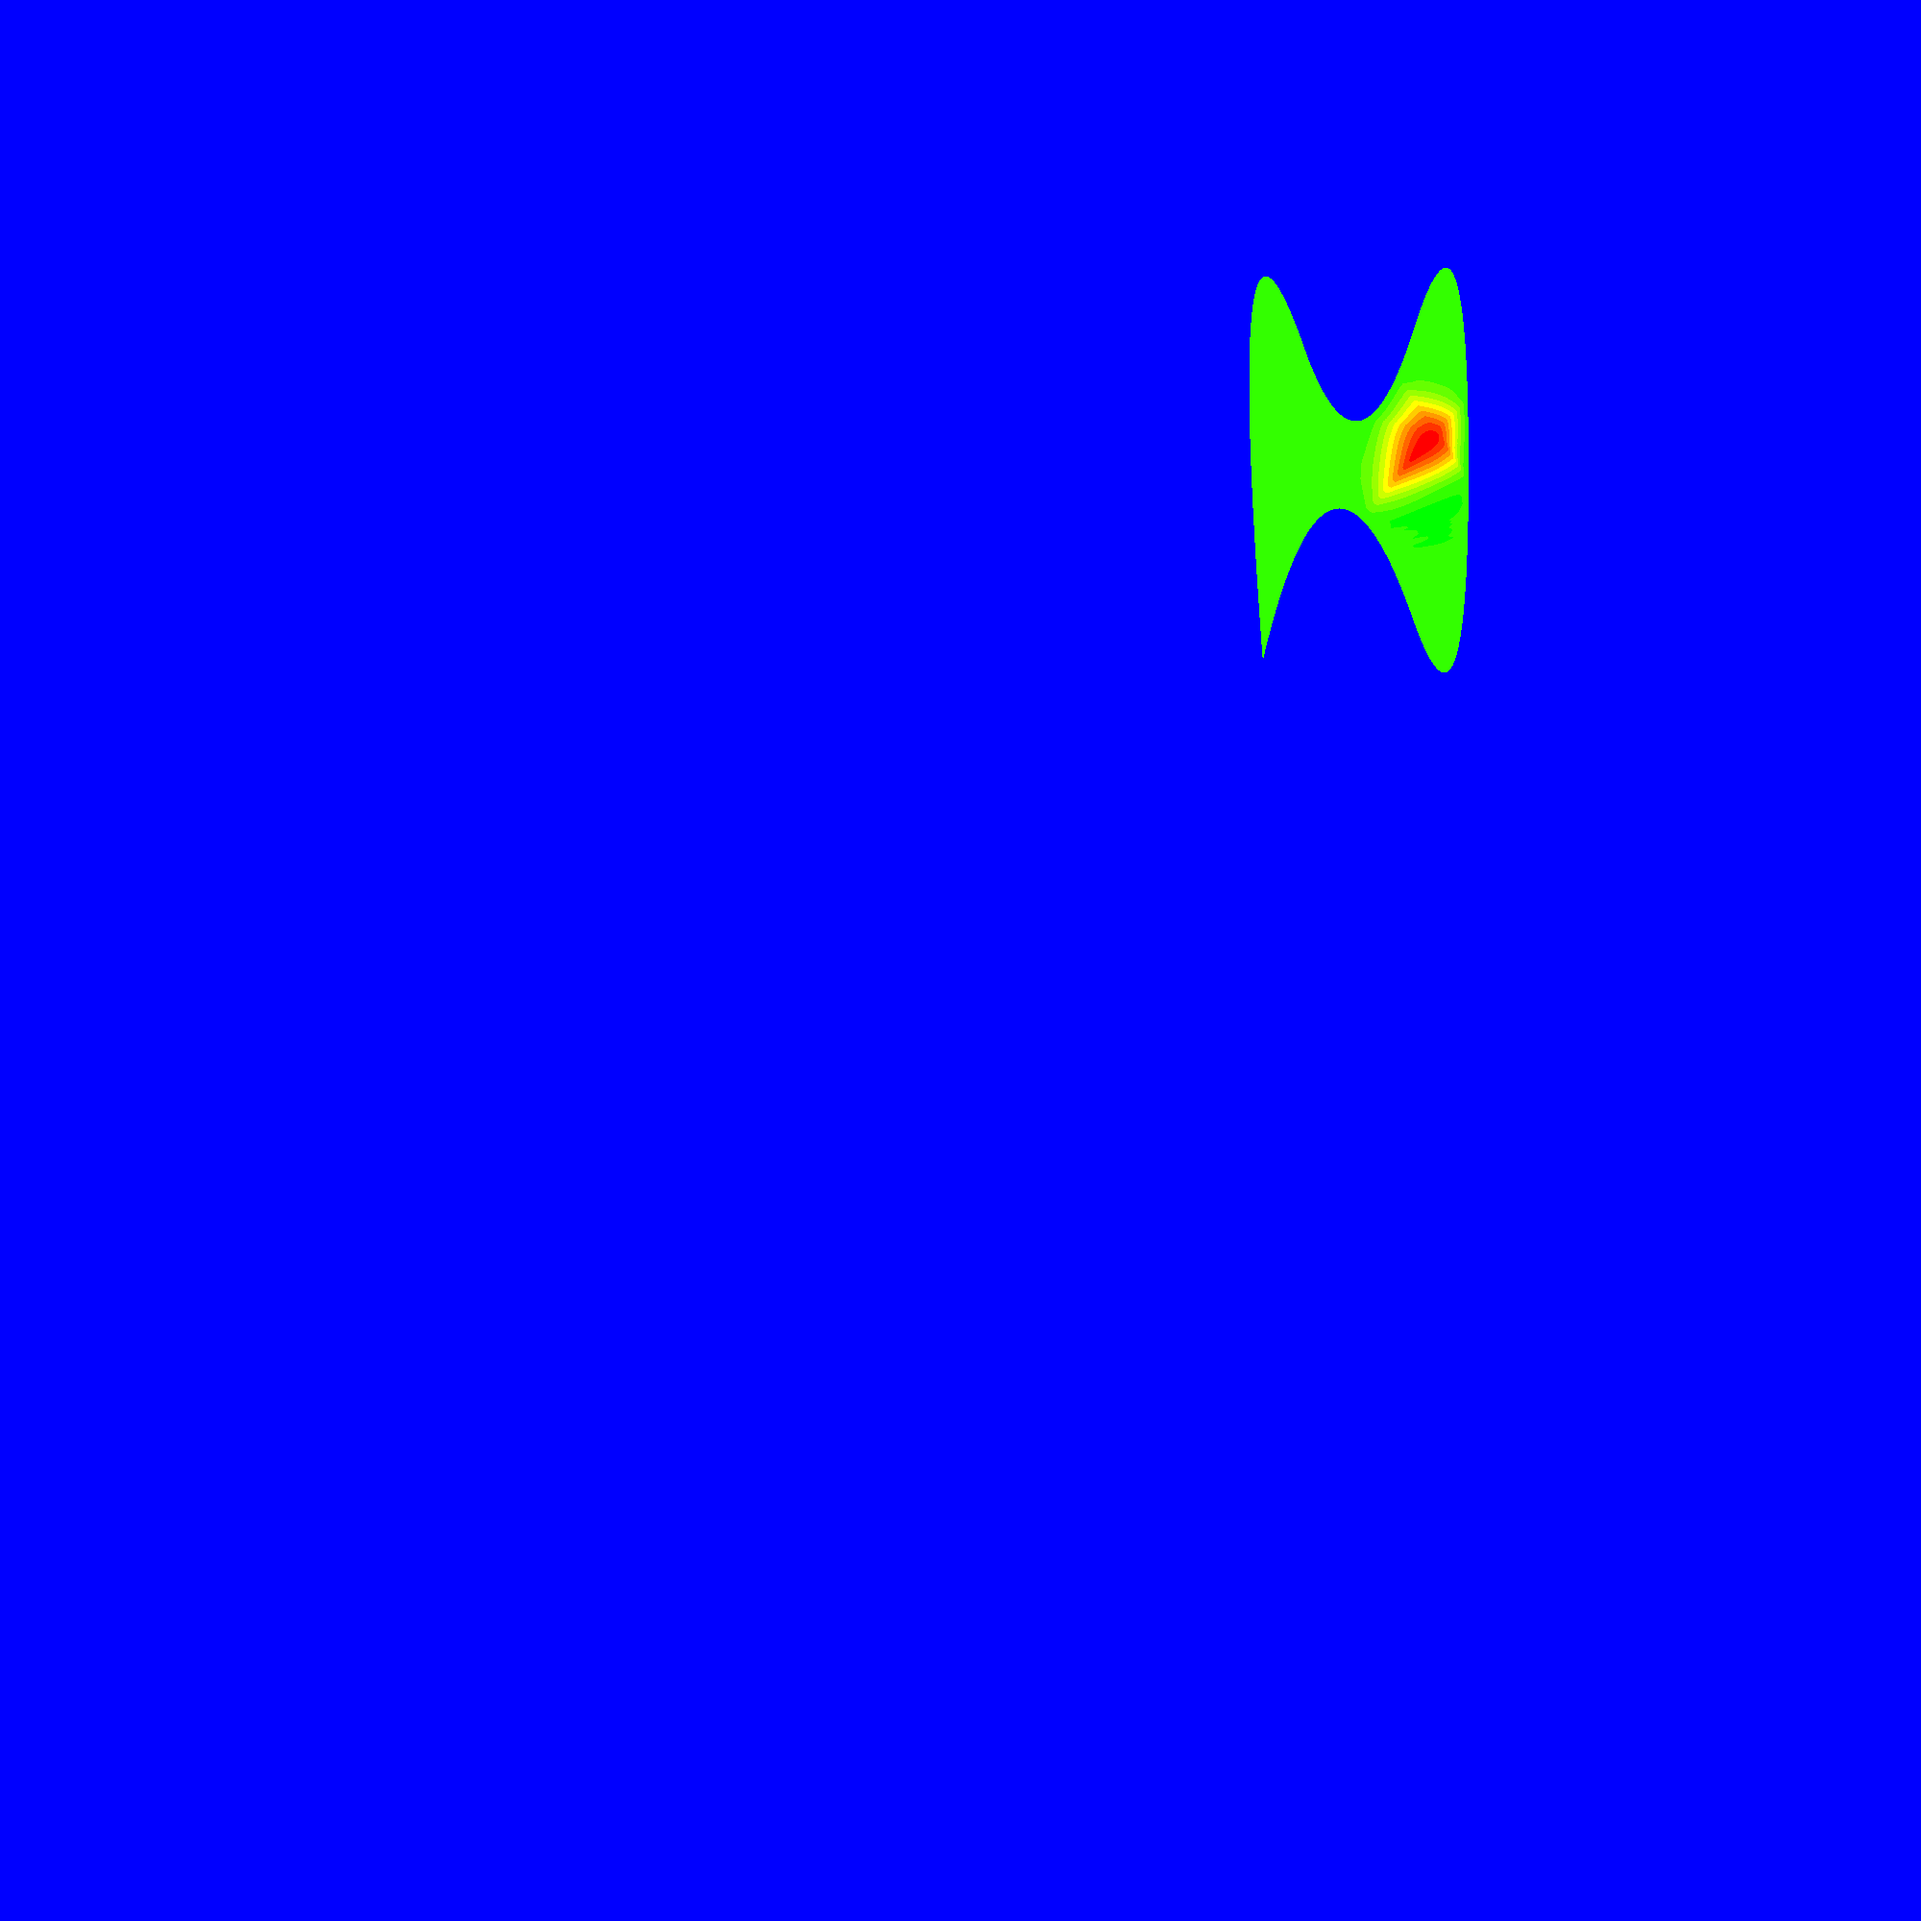
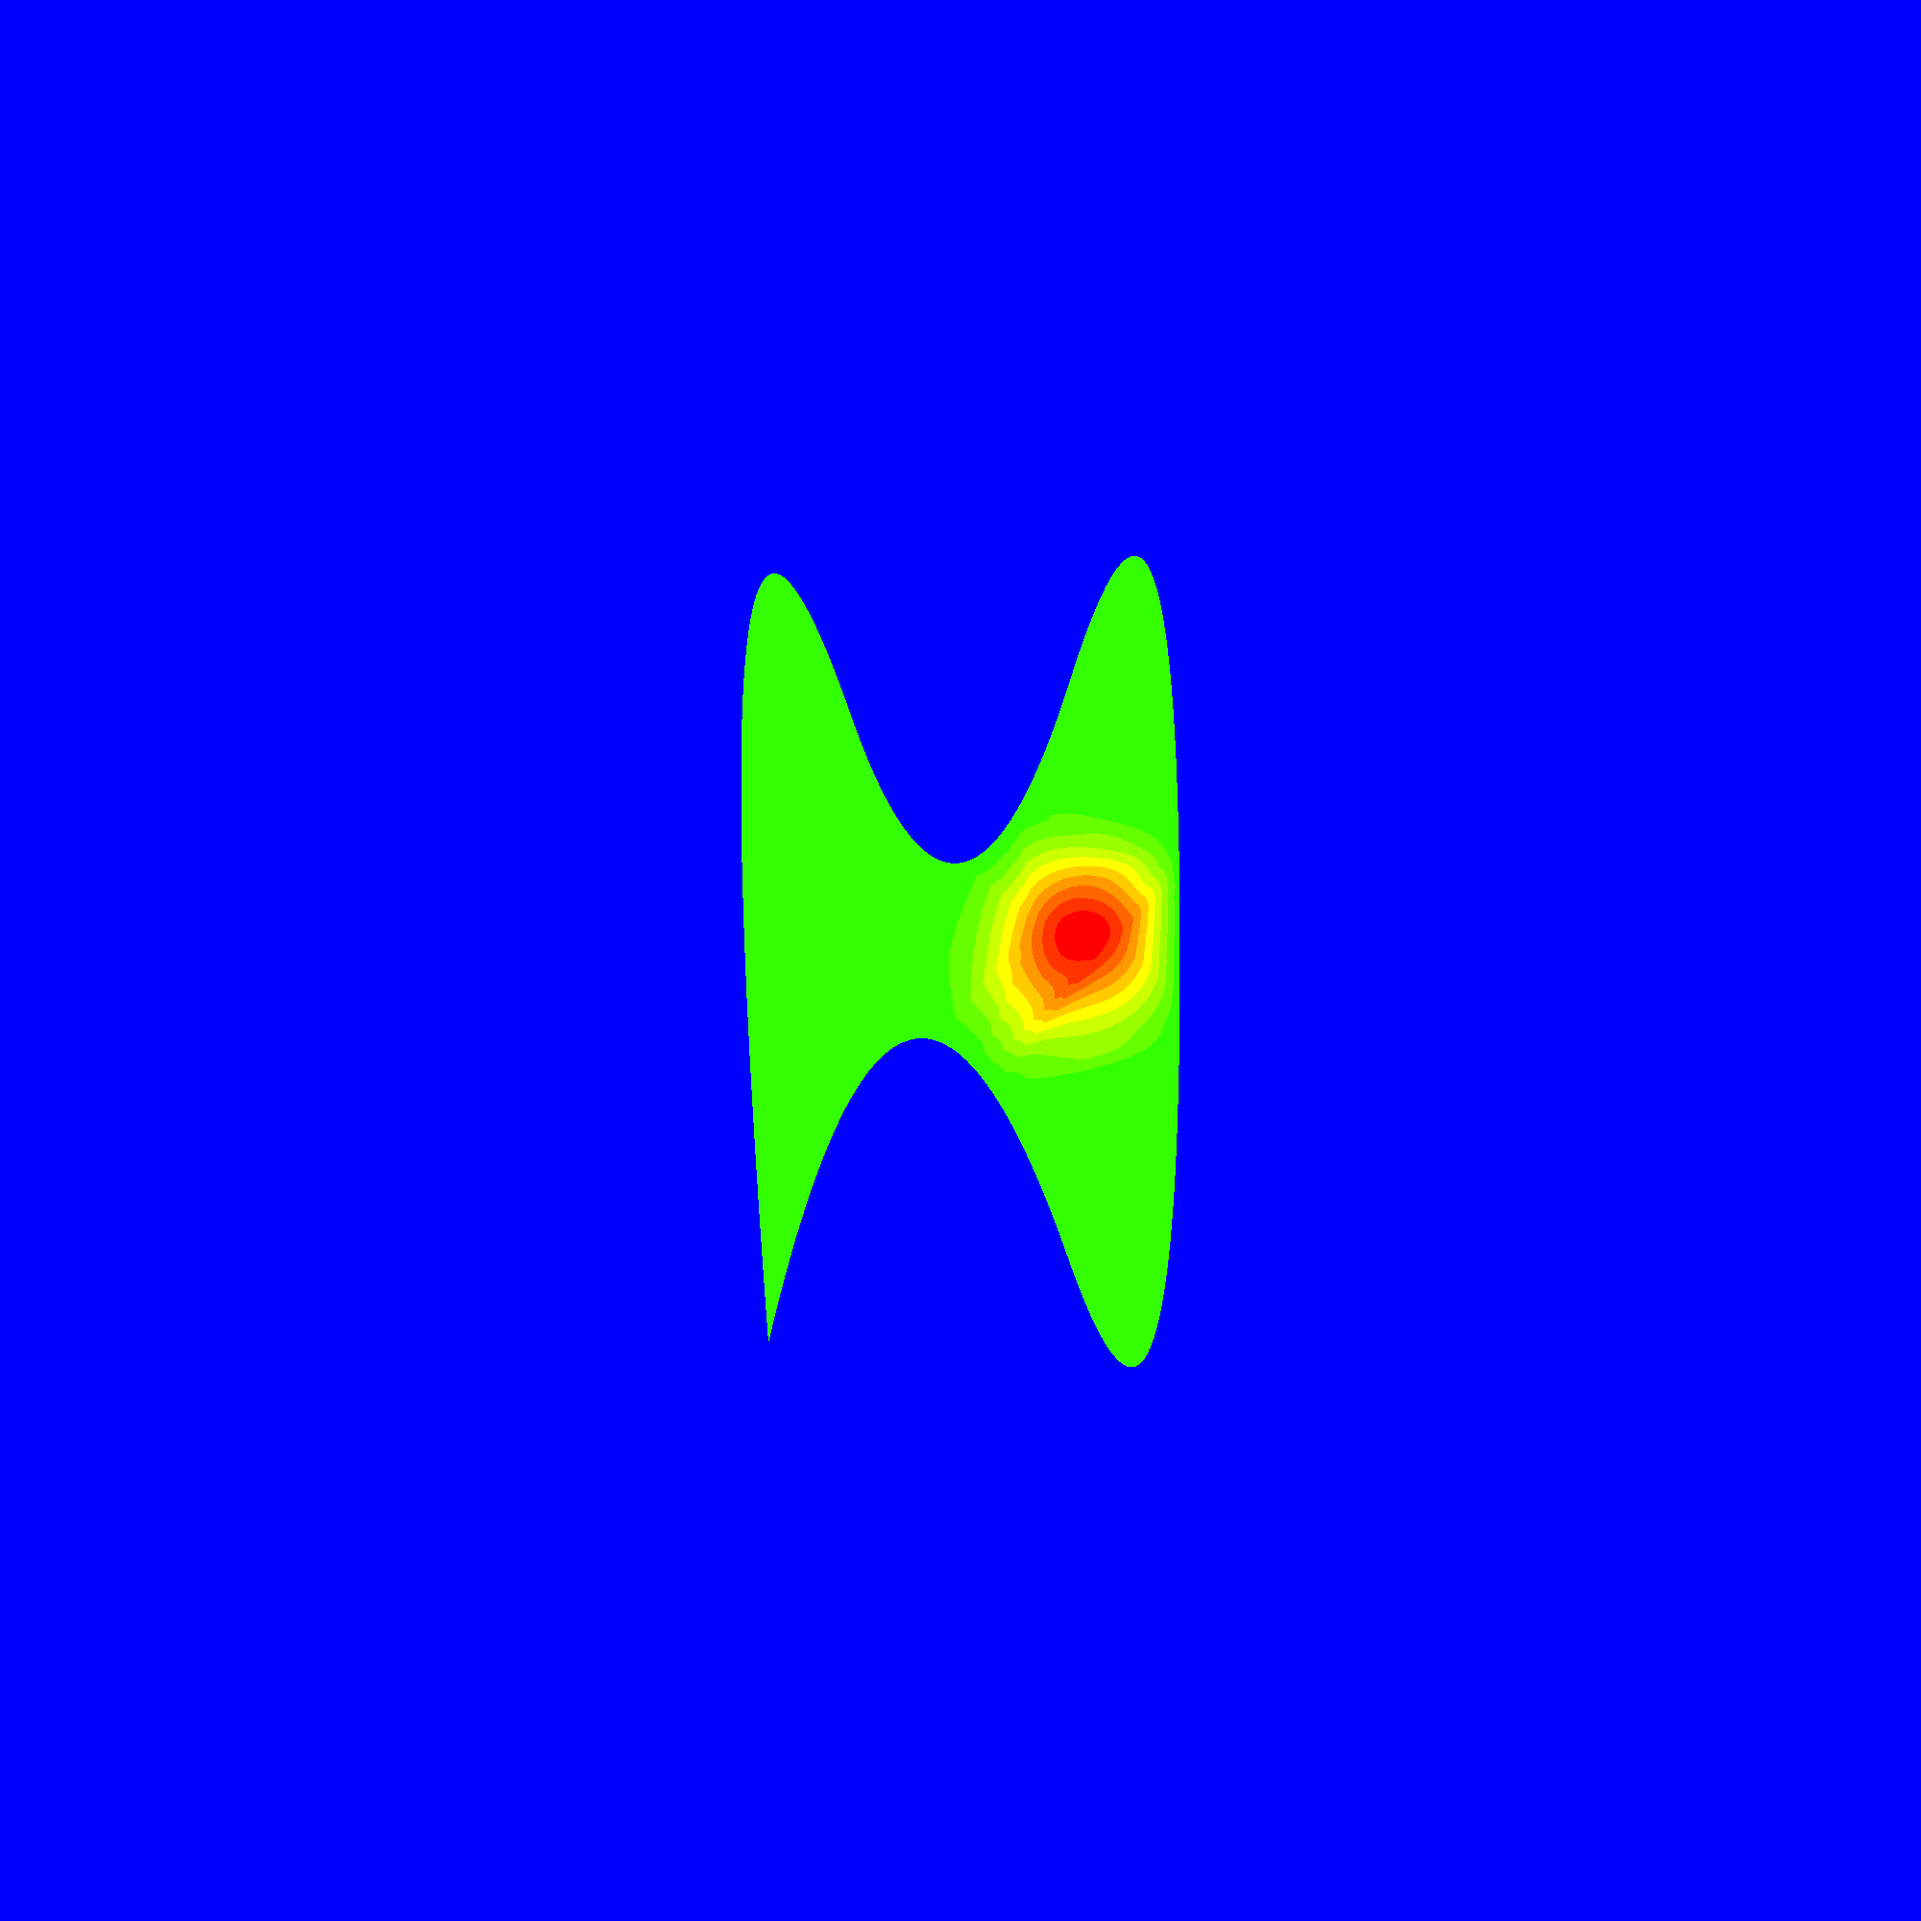
centrowanie naprawione

Changed region(s): [[0.372, 0.279, 0.62, 0.713], [0.651, 0.124, 0.775, 0.341]]

diff --git a/python/World.py b/python/World.py
@@ -37,11 +37,13 @@ class World:
         c = self.color_phases(n)
         x_move = land.start[0]
         y_move = land.start[1]
+        land_size_x = land.height_map.shape[1]
+        land_size_y = land.height_map.shape[0]
         for (row,col),value in np.ndenumerate(land.height_map):
             if value!=-np.inf:
                 for i,y in enumerate(h):
                     if y>=value:
-                        self.pixels[self.size[0]//2-row-y_move][col+x_move+self.size[1]//2]=c[i]
+                        self.pixels[self.size[0]//2-row-y_move+land_size_y//2][col+x_move+self.size[1]//2-land_size_x//2]=c[i]
                         break
     
     def draw(self):
@@ -54,22 +56,22 @@ class World:
         img_rgb.save("obraz_rgb.png")
         img_rgb.show()
 
-# points3D = np.array([
-#     [80, 40, 50],
-#     [160, 20, 60]
-# ])
-# points2D = np.array([
-#     [-100,-200],
-#     [0,-50],
-#     [100,-200],
-#     [100,200],
-#     [0,50],
-#     [-100,200],
-#     [-100,-200]
-# ])
-# intpoints2D = [InterpreterPoint(point[0],point[1]) for point in points2D]
-# heights = [InterpreterHeight(InterpreterPoint(point[0],point[1]),point[2],0) for point in points3D]
+points3D = np.array([
+    [80, 40, 50],
+    [160, 20, 60]
+])
+points2D = np.array([
+    [-100,-200],
+    [0,-50],
+    [100,-200],
+    [100,200],
+    [0,50],
+    [-100,200],
+    [-100,-200]
+])
+intpoints2D = [InterpreterPoint(point[0]*2,point[1]*2) for point in points2D]
+heights = [InterpreterHeight(InterpreterPoint(point[0],point[1]),point[2],0) for point in points3D]
 
-# intland1 = InterpreterLand(InterpreterPoint(300,300),intpoints2D,heights,"Nic","Nic")
-# intworld = InterpreterWorld([intland1],InterpreterPoint(2000,2000))
-# draw_image_from_InterpreterWorld(intworld)
+intland1 = InterpreterLand(InterpreterPoint(0,0),intpoints2D,heights,"Nic","Nic")
+intworld = InterpreterWorld([intland1],InterpreterPoint(2000,2000))
+draw_image_from_InterpreterWorld(intworld)
